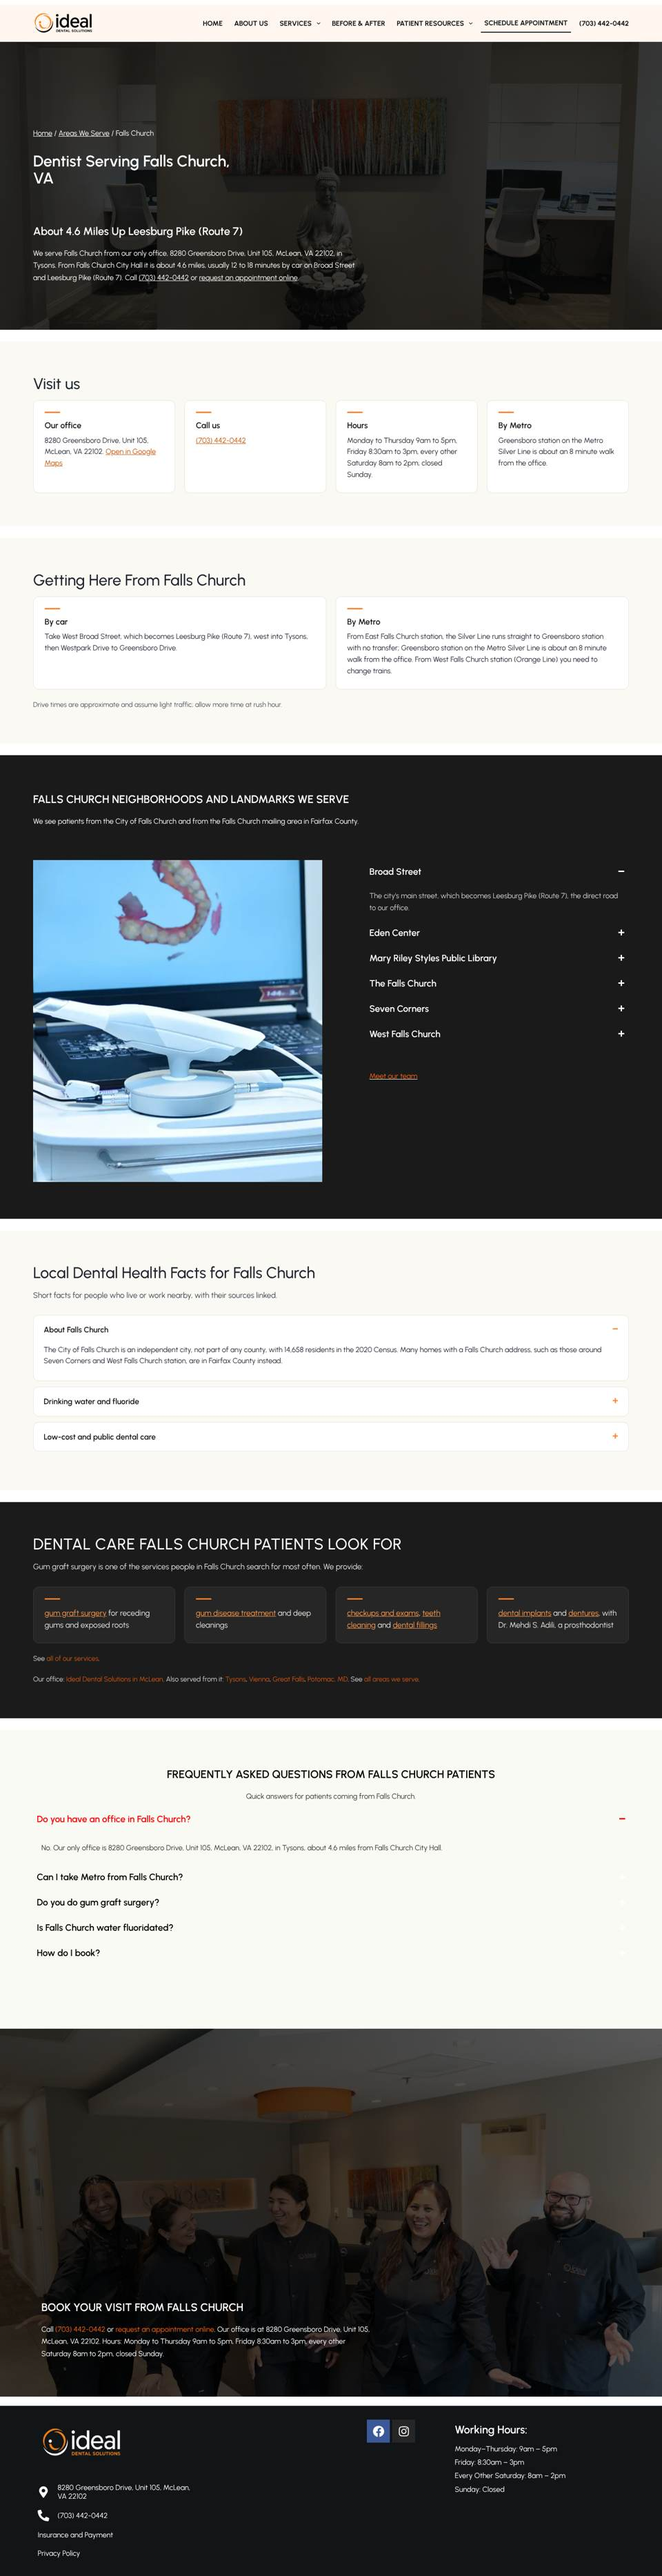
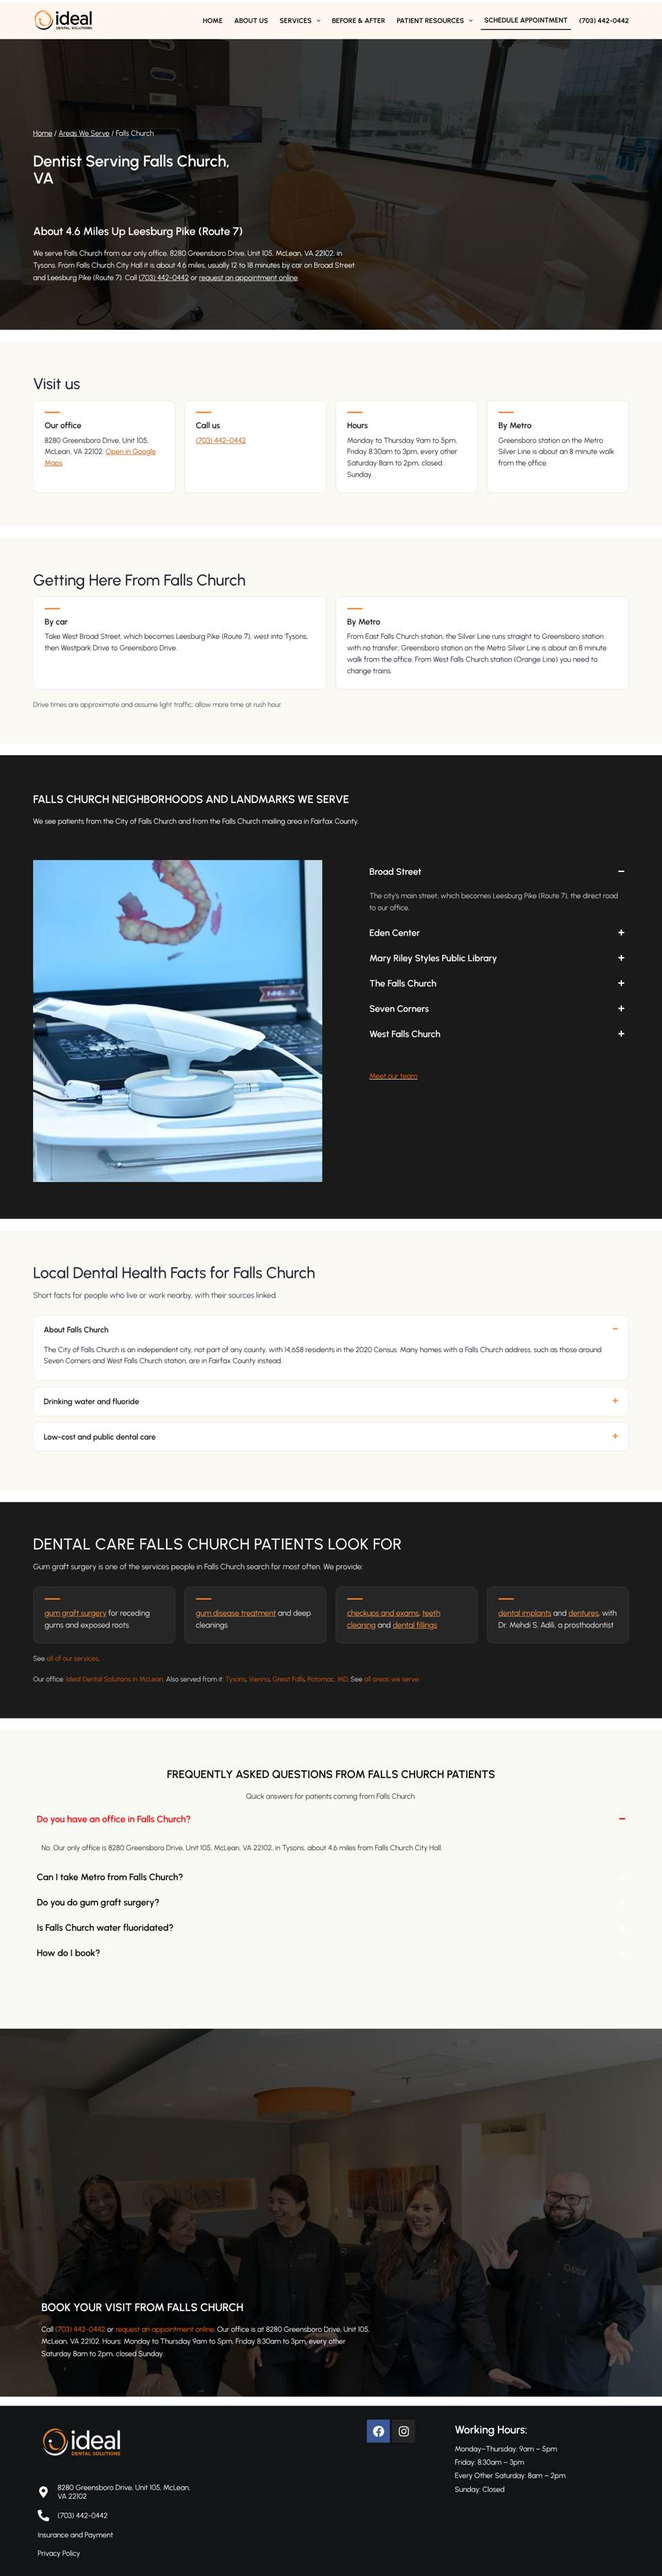
Great Falls hero: the front desk photo; Falls Church hero: a treatment room
Task: TTR-970
Claude-Session: https://claude.ai/code/session_01T2q5z24nrpRqeRPwVhZjBN

Changed region(s): [[0.0312, 0.0, 0.6875, 0.1243], [0.7188, 0.0, 1.0, 0.1243]]

diff --git a/scripts/locations.ts b/scripts/locations.ts
@@ -130,8 +130,8 @@ const LOOK: Record<string, Look> = {
   mclean: { hero: "lobby", panel: "team", cta: "exterior" },
   tysons: { hero: "exterior", panel: "lobby", cta: "room" },
   vienna: { hero: "hall", panel: "room2", cta: "lobby" },
-  "falls-church": { hero: "interior", panel: "scanner", cta: "team" },
-  "great-falls": { hero: "hall2", panel: "room", cta: "hall3" },
+  "falls-church": { hero: "room", panel: "scanner", cta: "team" },
+  "great-falls": { hero: "interior", panel: "room", cta: "hall3" },
   potomac: { hero: "room2", panel: "lab", cta: "hall" },
 };
 const OVERLAY = "box-shadow:inset 0 0 0 2000px rgba(17,21,24,0.55)";
